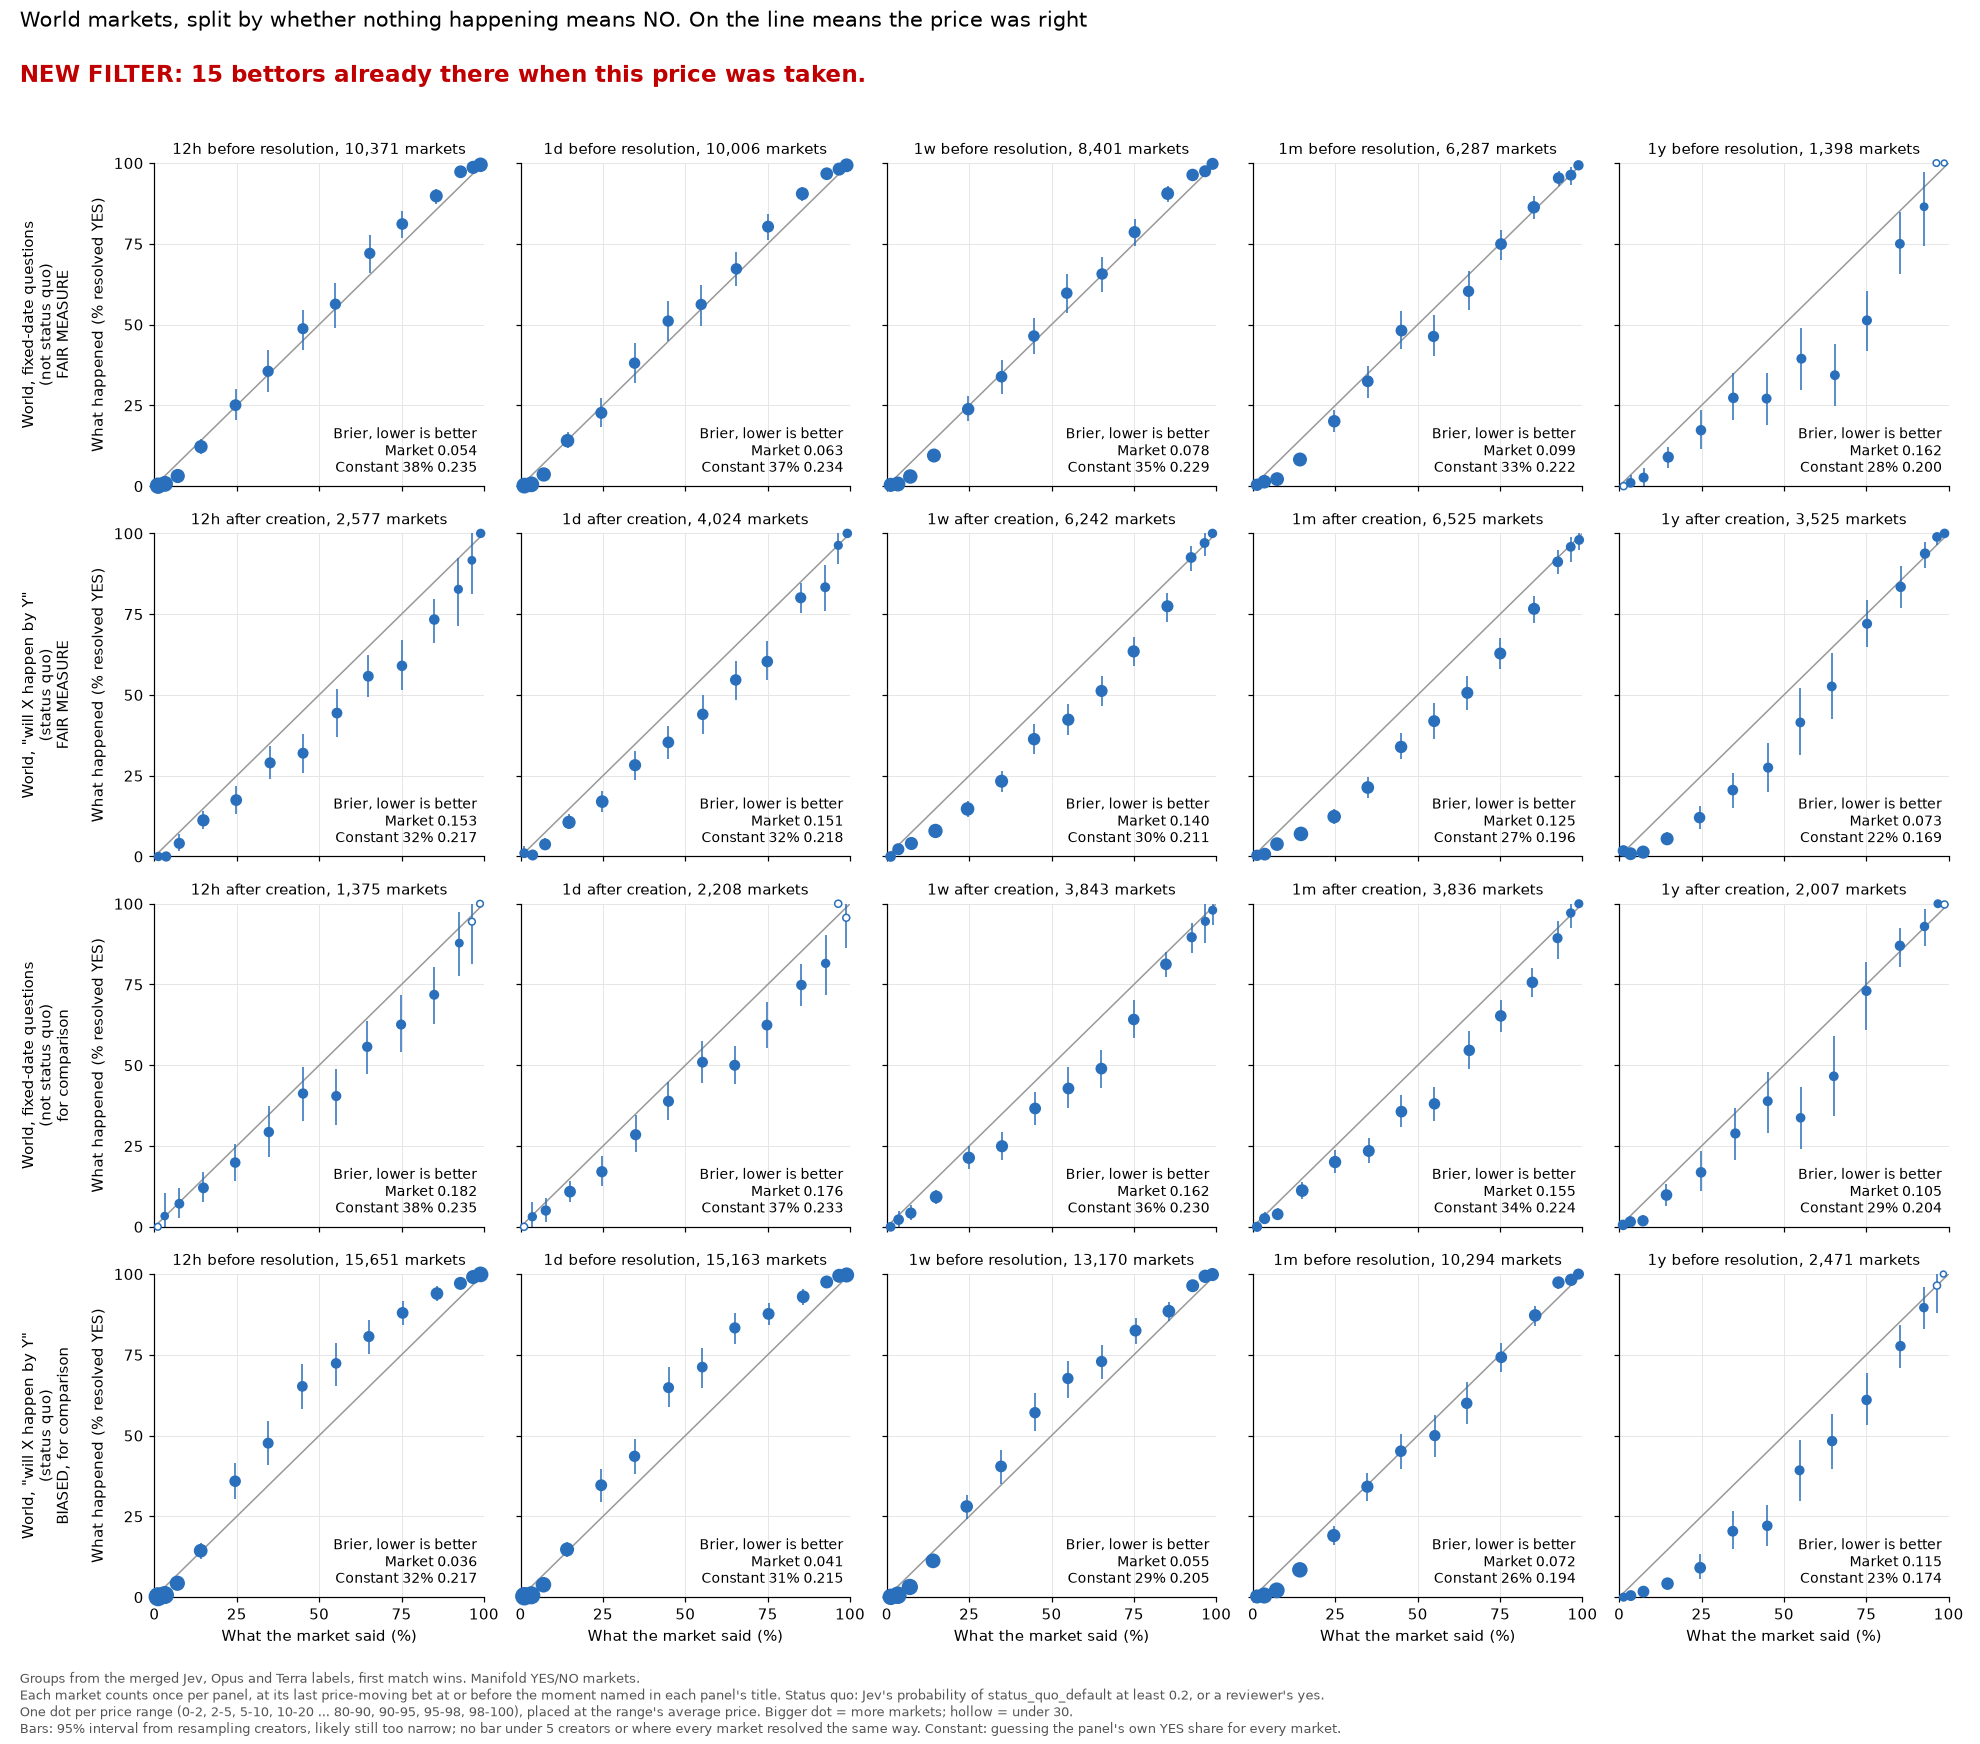
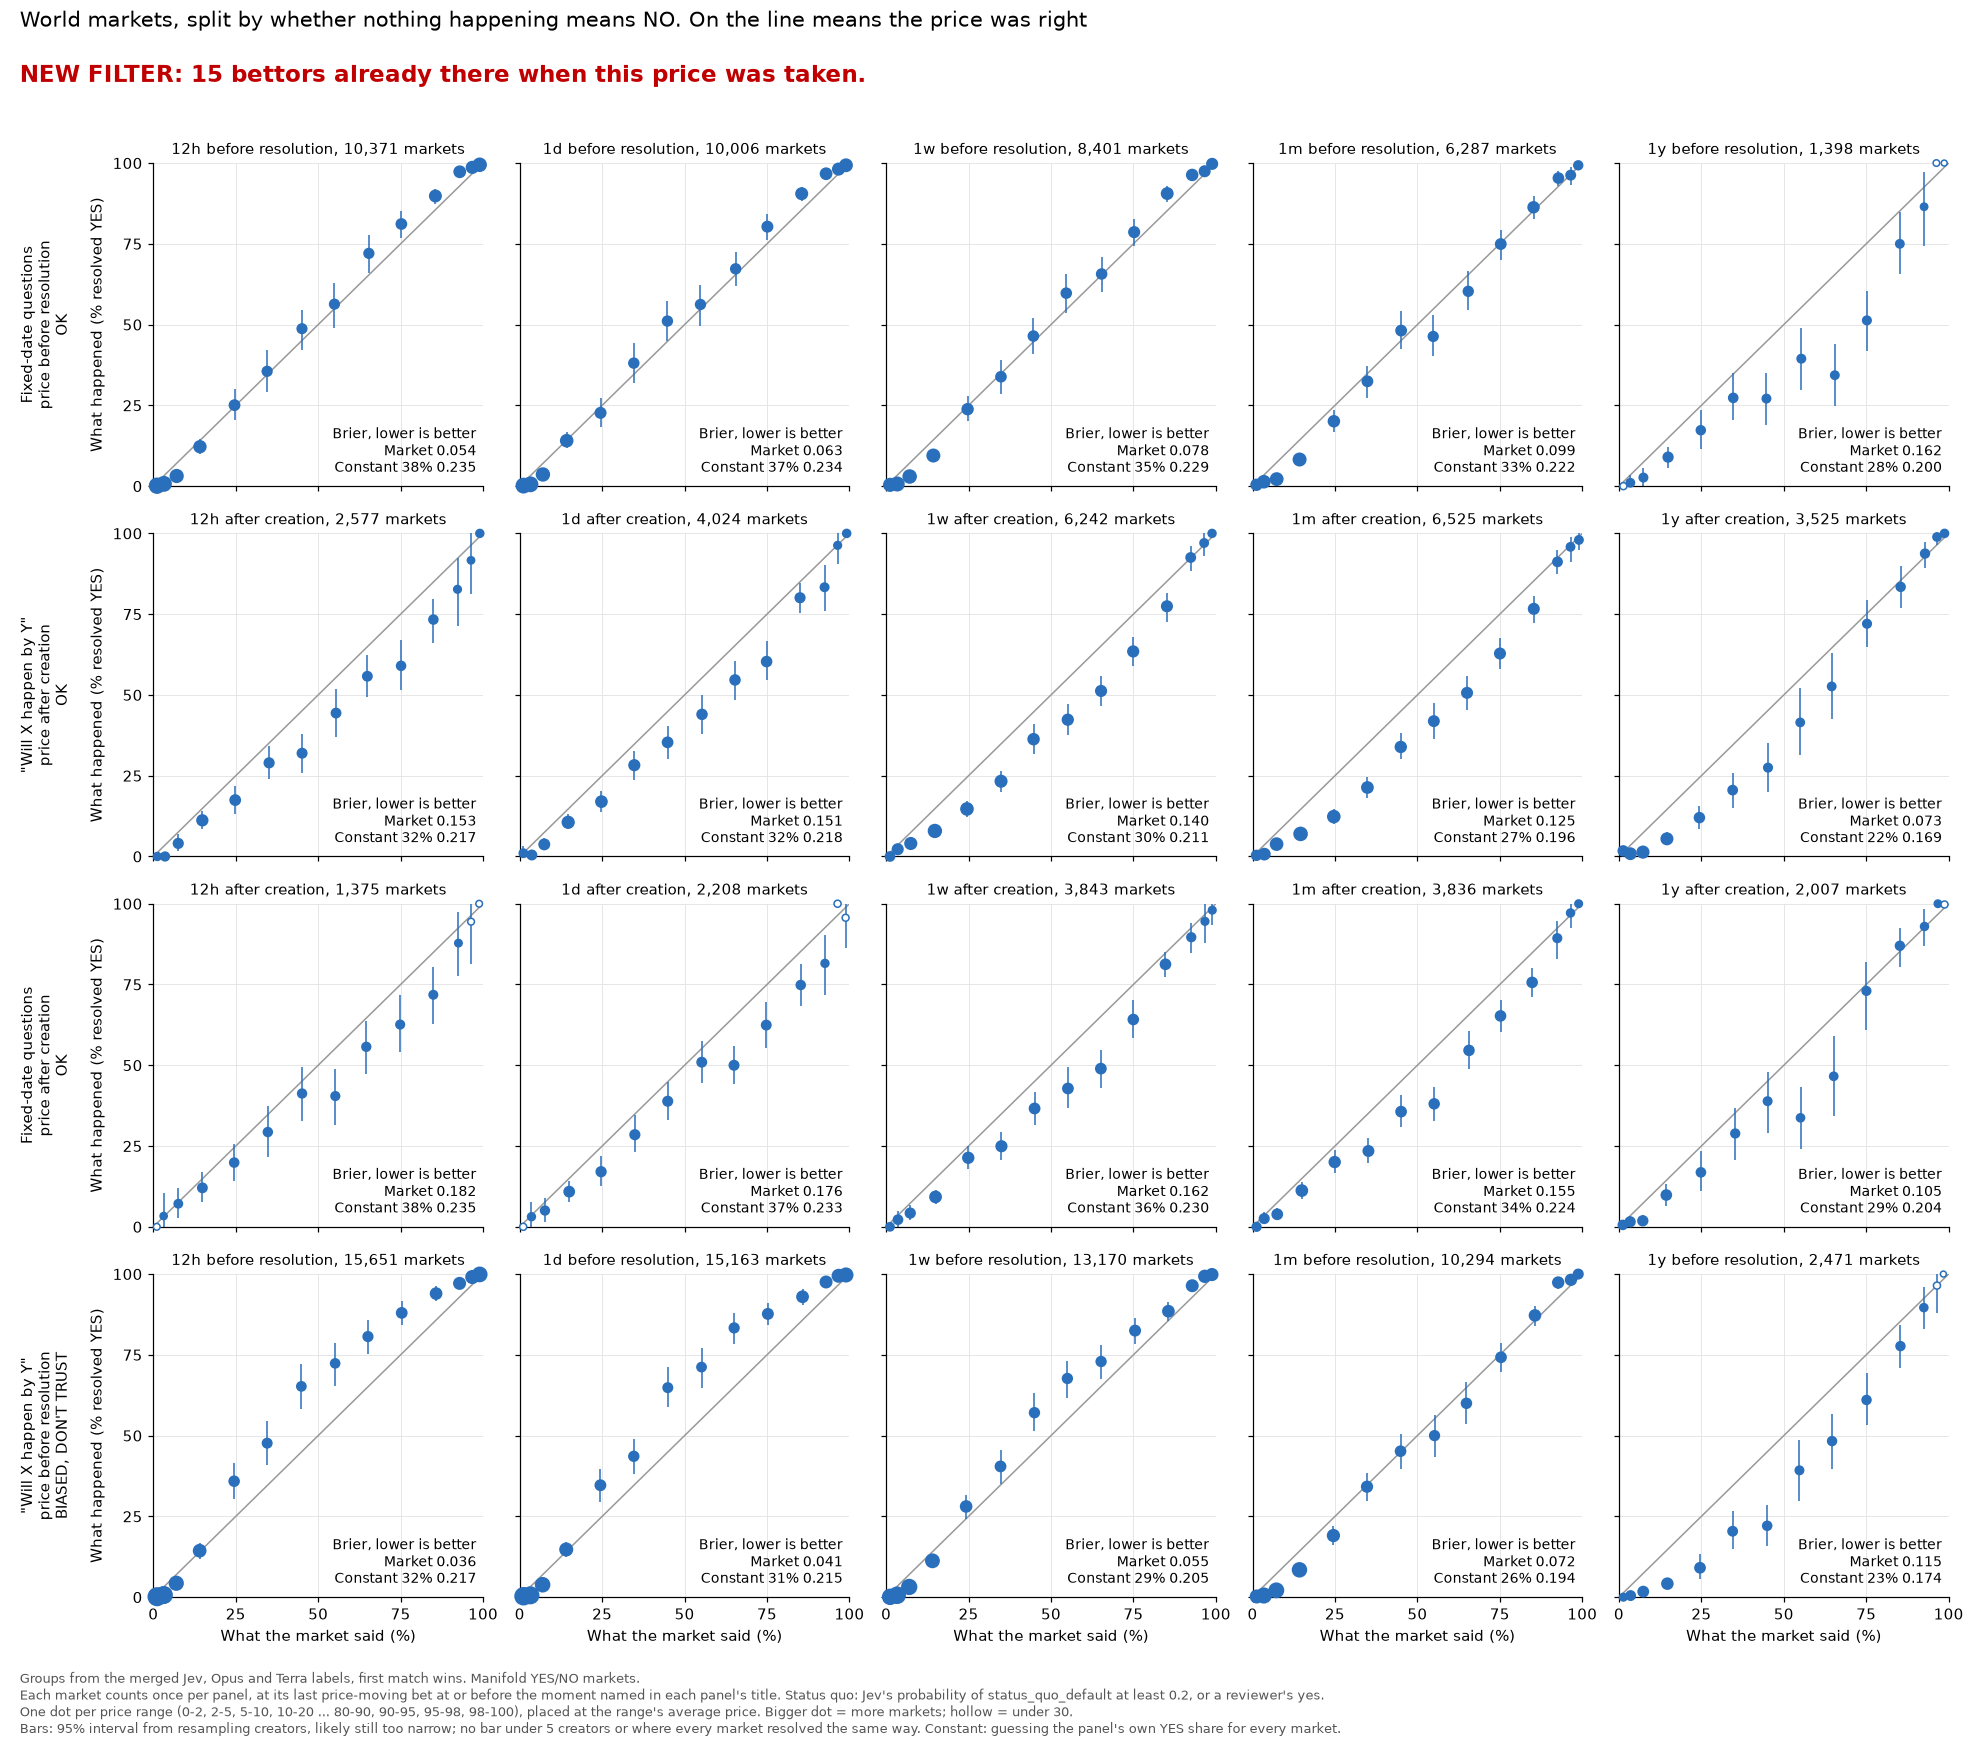
Clearer row labels on the status quo plot

diff --git a/src/plot_calibration.py b/src/plot_calibration.py
@@ -23,8 +23,8 @@ GROUPS = {"world": "World", "traded_elsewhere": "Traded elsewhere\n(sport, price
 ANCHORS = {"before_resolution": "before resolution", "after_creation": "after creation"}
 QUO_CUT = 0.2  # Jev reaches 0.8 on only 7 of 69 markets Opus calls status_quo_default; 0.2 finds 51 (notes/labeling_review.md)
 SQ = "status_quo_default"
-QUO_ROWS = [("before_resolution", "world_not_quo", "World, fixed-date questions\n(not status quo)\nFAIR MEASURE"), ("after_creation", "world_quo", "World, \"will X happen by Y\"\n(status quo)\nFAIR MEASURE"),
-            ("after_creation", "world_not_quo", "World, fixed-date questions\n(not status quo)\nfor comparison"), ("before_resolution", "world_quo", "World, \"will X happen by Y\"\n(status quo)\nBIASED, for comparison")]
+QUO_ROWS = [("before_resolution", "world_not_quo", "Fixed-date questions\nprice before resolution\nOK"), ("after_creation", "world_quo", "\"Will X happen by Y\"\nprice after creation\nOK"),
+            ("after_creation", "world_not_quo", "Fixed-date questions\nprice after creation\nOK"), ("before_resolution", "world_quo", "\"Will X happen by Y\"\nprice before resolution\nBIASED, DON'T TRUST")]
 HOW = {"before_resolution": "resolution minus the horizon. YES markets often resolve early, so this moment depends on the outcome.",
        "after_creation": "creation plus the horizon, for markets still unresolved then. Traders can see that a market is still open, so this doesn't depend on the outcome. Only resolved markets are in the data, so ones still open today are missing."}
 RESAMPLES, FEW, FEW_CREATORS, MIN_BETTORS = 2000, 30, 5, 15
